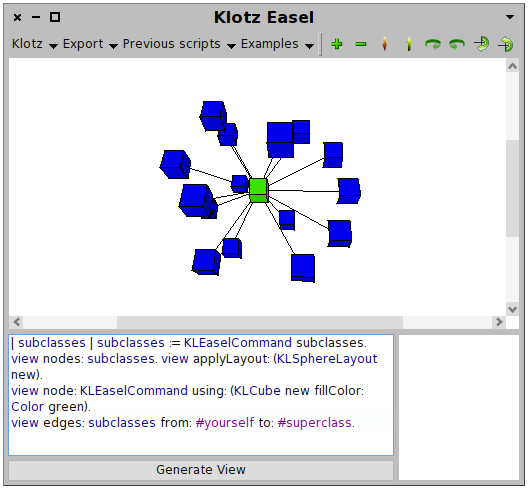
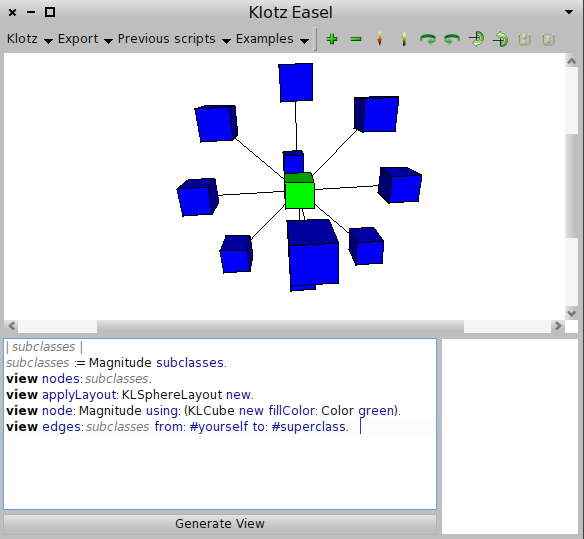
This is all folks

Changed region(s): [[0.0, 0.0, 1.0, 1.0], [0.3333, 0.184, 0.4545, 0.3067], [0.6061, 0.1534, 0.697, 0.2454]]

diff --git a/main.tex b/main.tex
@@ -1,4 +1,4 @@
-
+	
 %\documentclass{sig-alternate}
 
 % English flaws:
@@ -210,12 +210,13 @@ Pleiad Lab, Department of Computer Science (DCC),\\ University of Chile, Santiag
 %\end{center}
 
 \begin{abstract}
-Klotz is an agile 3d visualization engine. Visualizations are produced from an arbitrary model, typically a set of plain objects and connections. No preparation of the model is required to be rendered.
+\rj{the sentences "a set of plain objects and connections" and "no preparation of the model" seems not understandable}
+Klotz is an agile 3D visualization engine. Visualizations are produced from an arbitrary model, typically a set of plain objects and connections. No preparation of the model is required to be rendered.
 Klotz uses a semi-descriptive scripting language to easily and interactively build visualizations. 
 
-Klotz offers four layouts to easily exploit the third dimension when visualizing data. %The block layout organizes data as a city metaphor and the scatterplot layout organizes data along 3 axes.
+Klotz, on its current version, offers four layouts to easily exploit the third dimension when visualizing data. %The block layout organizes data as a city metaphor and the scatterplot layout organizes data along 3 axes.
 
-Klotz is entirely implemented in Pharo. The engine is fully based on the facilities offered by Morph. 
+Klotz is entirely implemented in Pharo. The engine is fully based on the facilities offered by Morphic. 
 % What is the problem
 % Why is the problem a problem?
 % What's the surprising Idea?
@@ -240,13 +241,17 @@ Klotz is entirely implemented in Pharo. The engine is fully based on the facilit
 
 \section{Introduction} \seclabel{introduction}
 
-Visual displays allow the human brain to study multiple aspects of complex problems in parallel. Visualization, ``allows for a higher level of abstract, a closer mapping to the problem domain''~\cite{Petr95a}. 
+Visual displays allow the human brain to study multiple aspects of complex problems in parallel. Visualization, ''allows for a higher level of abstract, a closer mapping to the problem domain''~\cite{Petr95a}. 
 
-Numerous frameworks have been offered by the Smalltalk community to visualize data. Mondrian\footnote{\url{http://www.moosetechnology.org/seaside/pier/tools/mondrian}}~\cite{Meye06a}, one of them, is a flexible and agile visualization engine that uses two dimensional representation to visualize data.  
+Numerous frameworks have been offered by the Smalltalk community to visualize data. Mondrian\footnote{\url{http://www.moosetechnology.org/seaside/pier/tools/mondrian}}~\cite{Meye06a}, one of them, is a flexible and agile visualization engine that uses a two dimensional representation to visualize data.  
 
 We are building on the experience we gained with Mondrian by proposing a new visualization engine that adds a third dimension to the graphical representation. Klotz applies the main features of Mondrian, namely the scripting language and the interactive easel, to a new rendering engine.
 
+\rj{according to lukas we are not using "Morph facilities" but is just using the graphic canvas to draw (like Mondrian). I believe that with some explanation on the graphic engine this would be fine. Also we should remark if we only see those 2 benefits and list them, or mention others like the stability of been based on Pharo facilities or the security also provided by staying on the Pharo enviroment (i think these 2 are quite easy to see just by mentioning the installation and multi-plataform support but its a comment repeated over the review)}
 Contrary to other Smalltalk 3D visualization engines (Lumi\`ere\cite{Oliv09a}, Jun\footnote{\url{http://aokilab.kyoto-su.ac.jp/jun/index.html}}), Klotz does not rely on OpenGL or any external libraries. The generation of 3D graphics is solely based on Morph facilities. The benefits are numerous, including ease of installation and multi-platform support.
+
+
+
 
 The paper is structured as follows:
 \secref{klotz} presents the essential characteristics of Klotz. It progressively presents Klotz' features by giving short and concise illustrative scripts. 
@@ -264,13 +269,13 @@ The paper is structured as follows:
 
 %=======
 \subsection{Klotz in a nutshell} \seclabel{nutshell}
-Klotz is an agile 3-dimensional visualization engine. Visualizations are made of cubes and lines. Contrary to other 3D visualization frameworks available on Smalltalk, Klotz maps each graphical element to an object that belongs to an user-defined domain. Visual dimensions of a graphical element is the result of applying metrics on the visualized domain. 
+Klotz is an agile 3D visualization engine. Visualizations are made of cubes and lines. Contrary to other 3D visualization frameworks available on Smalltalk, Klotz maps each graphical element to an object that belongs to an user-defined domain. The visual dimensions of a graphical element is the result of applying metrics on the visualized domain. 
 
 Klotz' objective is to offer a flexible and agile tool to visualize any arbitrary domain expressed in terms of objects and relations without any prior preparation. Visualizations are described by means of a scripting language. Consider the illustrative script:
 
 \begin{lstlisting}[numbers=left]
 | subclasses |
-subclasses := KLEaselCommand subclasses.
+subclasses := Magnitude subclasses.
 view nodes: subclasses.
 view applyLayout: KLSphereLayout new.
 
@@ -279,31 +284,37 @@ view edges: subclasses from: #yourself to: #superclass.
 \end{lstlisting}
 
 Line 1 defines a temporary variable \ct{subclasses}. 
-The variable is initialized in Line 2 with the all the subclasses of the class \ct{KLEaselCommand}.
-Line 3 adds the objects referenced by \ct{subclasses} into the view. Each of the subclass of \ct{KLEaselCommand} is represented by a cube.
+The variable is initialized in Line 2 with the all the subclasses of the class \ct{Magnitude}.
+Line 3 adds the objects referenced by \ct{subclasses} into the view. Each of the subclass of \ct{Magnitude} is represented by a cube.
 Line 4 positions each cube on an invisible sphere.
 
-Line 6 adds a new node, \ct{KLEaselCommand}, the root of the class hierarchy. The node is colored in green.
-Line 7 adds as many edges there are elements in the variable \ct{subclasses}. For each subclass, an edge is drawn from the subclass to its superclass, \ct{KLEaselCommand}. The result is depicted in \figref{figure1.png}.
+Line 6 adds a new node, \ct{Magnitude}, the root of the class hierarchy. The node is colored in green.
+Line 7 adds as many edges there are elements in the variable \ct{subclasses}. For each subclass, an edge is drawn from the subclass to its superclass, \ct{Magnitude}. The result is depicted in \figref{figure1.png}.
 
-\fig{h}{0.4}{figure1.png}{KLEaselCommand subclasses.}
+\fig{h}{0.4}{figure1.png}{Magnitude subclasses.}
+
+\rj{this needs to be fully estructured, i am adding it on demand of the reviewers, whom want a explanation on its diferences}
+Klotz is intended to be suplementary 3D version of Mondrian, its graphic engine is not based on it tought, but built from the ground.
+The interface is as similar as it can be to Mondrian's, but its intention is not to bring the same visualizations to 3D figures, 
+but to add new means to analyse code on another perspective, with another dimention to add more information on the object representation itself.
+
 
 \fig{h}{0.5}{klotz}{The Klotz Easel}
-
+\rj{it also remarks that we need to remark the difference with other approaches}
 Agility of Klotz is expressed via an easel to interactively ``compose'' a visualization (\figref{klotz}). The lower part contains the scripts what is entered by the user. The upper part contains the visualization generated by the script interpretation.
 
 
 
 %=======
 \subsection{Scripting visualizations with Klotz} \seclabel{scripting}
-
-The Klotz scripting language is plain Pharo code. Each script is based on 4 principles:
+	
+The Klotz scripting language is plain Smalltalk code. Each script is based on 4 principles:
 
 \begin{itemize}
-\item elements composing the visualization are represented as \emph{nodes}. Each node may have a shape and color that reflect some characteristics of the represented node.
-\item relations between elements are represented with \emph{edges}. The color and width of a shape depend on some arbitrary characteristics of connected objects.
-\item elements may be ordered using \emph{layouts}. A layout may use edges to direct the ordering.
-\item containment is expressed with a \emph{view}, an object that enables the construction of the visualization by offering numerous methods.%\ab{Is there more to say?}
+\item Elements composing the visualization are represented as \emph{nodes}. Each node may have a shape and color that reflect some characteristics of the represented node.
+\item Relations between elements are represented with \emph{edges}. The color and width of a shape depend on some arbitrary characteristics of connected objects.
+\item Elements may be ordered using \emph{layouts}. A layout may use edges to direct the ordering.
+\item Containment is expressed with a \emph{view}, an object that enables the construction of the visualization by offering numerous methods.%\ab{Is there more to say?}
 \end{itemize}
 
 %to manage the interaction between the elements on the \emph{view}:
@@ -395,7 +406,7 @@ Perspective is the way a solid object is drawn on a two-dimensional surface so a
 \figref{perspective} illustrates this situation with a slight variation in the perspective.
 
 \paragraph{Controlling the camera}
-A user look at a visualization through the view camera. The easel offers six commands to rotate and move the camera along every axis. 
+A user looks at a visualization through the view camera. The easel offers six commands to rotate and move the camera along every axis. 
 %The position of the camera used to render 
 %In order to manage the position of the viewer the easel 
 %contains 6 commands to rotate, it provides rotation on 
@@ -623,6 +634,8 @@ view applyLayout:
 
 %:%%%%%%%%%%%%%%%%%%%%%%%%%%%%%%%%%%%%%%%%%%%%%%%%%%
 \section{Implementation} \seclabel{implementation}	
+\rj{we need to add some time reference here, either say that this quantities can be handled by Klotz without colapsing or say that it keeps
+working just fine with them}
 The current version of \emph{Klotz}, yet not optimized, provides
 support up to 1000 \emph{nodes} on screen, as well as, 
 1000 \emph{edges} between these \emph{nodes}.
@@ -635,12 +648,15 @@ As shown in \figref{graph1}, the time taken for the easel to render a scene with
 
 On \figref{graph2} illustrates the linear resource taken by the layouts.
 
+\rj{this may need a subsection itself, but the reviewers ask for a detailed explanation on the contruction of the 3D objetcs, and if posible an encounter problem}
+The Klotz graphic engine its based on the construction of polygons that are later rendered as regular 2D Morphs. These polygons vertices are calculated using tridimentional vectors with absolute coordinates, and using matrices to produce each transformation (from zooming to the perspective transformation into 2D points). The 3D shapes are also basically optimised, the hidden faces (calculated to some point by need) are not rendered. These calculations, easy as they sound, are often troublesome since calculation for coordinates requires decent, and fast, calculations that sometimes can show perfectly reasonable results in theory (like a point located on the infinity) that must be taken care with proper aproximations, wich must also fix the not accurate aproximations made by the Integer/Float classes.
 
-The Klotz graphic generation solely uses Morph facilities. The most common approach to visualize 3d graphics is to use OpenGL, a reference in the field. We deliberately decided to not use OpenGL for a number of practical reasons:
+The Klotz graphic generation solely uses Morph facilities. The most common approach to visualize 3D graphics is to use OpenGL, a reference in the field. We deliberately decided to not use OpenGL for a number of practical reasons:
 
 \begin{itemize}
 \item OpenGL is distributed as a set of natives libraries, depending on the operating system. Libraries are accessed within Pharo using FFI or Alien, two technologies that interoperate with native libraries. Unfortunately, the recent advances with the Pharo virtual machine significantly reduced the usability of accessing external libraries.
 
+\rj{i am not sure if taking it into account but this argument is remarked as bad. I think its either not explicit or it need a bigger comment on the use of a Morphic based engine}
 \item The visualizations produced with Mondrian rarely go over 2,000 nodes and 1,000 edges. It is reasonable to expect similar figure as the upper limit for Klotz. OpenGL enables sophisticated rendering, including a high number of rendered polygons and advanced light composition. We do not expect to have such a need in a close future.
 \end{itemize}
 
@@ -648,7 +664,8 @@ Basing Klotz on OpenGL is clearly on our agenda. For this, Alien needs to gain s
 
 %:%%%%%%%%%%%%%%%%%%%%%%%%%%%%%%%%%%%%%%%%%%%%%%%%%%
 \section{Related Work} \seclabel{relatedwork}
-\ab{need to go over this}
+\rj{just copy-pasting "Related work seems to be unfinished (also remove the annotation): Jun, http://scg.unibe.ch/scgbib?
+query=christoph+wysseier, http://www.chromeexperiments.com/ "}
 \subsection{Lumiere}
 Lumiere~\cite{Oliv09a} is a 3D Framework,that applies a stage metaphor.
 This metaphor implies that all graphics are produced by cameras
@@ -686,14 +703,13 @@ When it comes to Klotz, not been as expressive as Codecity, eventually,
 and depending on the programer's skills, it can implement most  
 aspect of its model. 
 %The same metrics defined on it to represent code can be applied to a yet customizable environment, with a simple Pharo image. This can be very complex and carry lots of trouble that CodeCity has already fixed (probably). 
-But as said before, Klotz' objective is not to create a city metaphor model, but to have a flexible visualization engine system.
 %meant to easily display many different aspects of a code analysis on the 
 %same framework and with a scripting language, designed to be easy to manage.
 
 
 %:%%%%%%%%%%%%%%%%%%%%%%%%%%%%%%%%%%%%%%%%%%%%%%%%%%
 \section{Conclusion} \seclabel{conclusion}
-
+\rj{I dont know how much time you got to take care of this remarks but the reviewers asked for a download reference}
 Klotz is an agile three-dimensional visualization engine. Klotz visualizes a graph of objects, without any preparation of the objects.
 Klotz modeling system allows one to change a graph definition easily, making it simple and fast to adjust a desired visualization. Been based on any object as the items represented on the node it gives great dynamism to the kind of visualization that it can provide. 
 As future work, we plan to:
